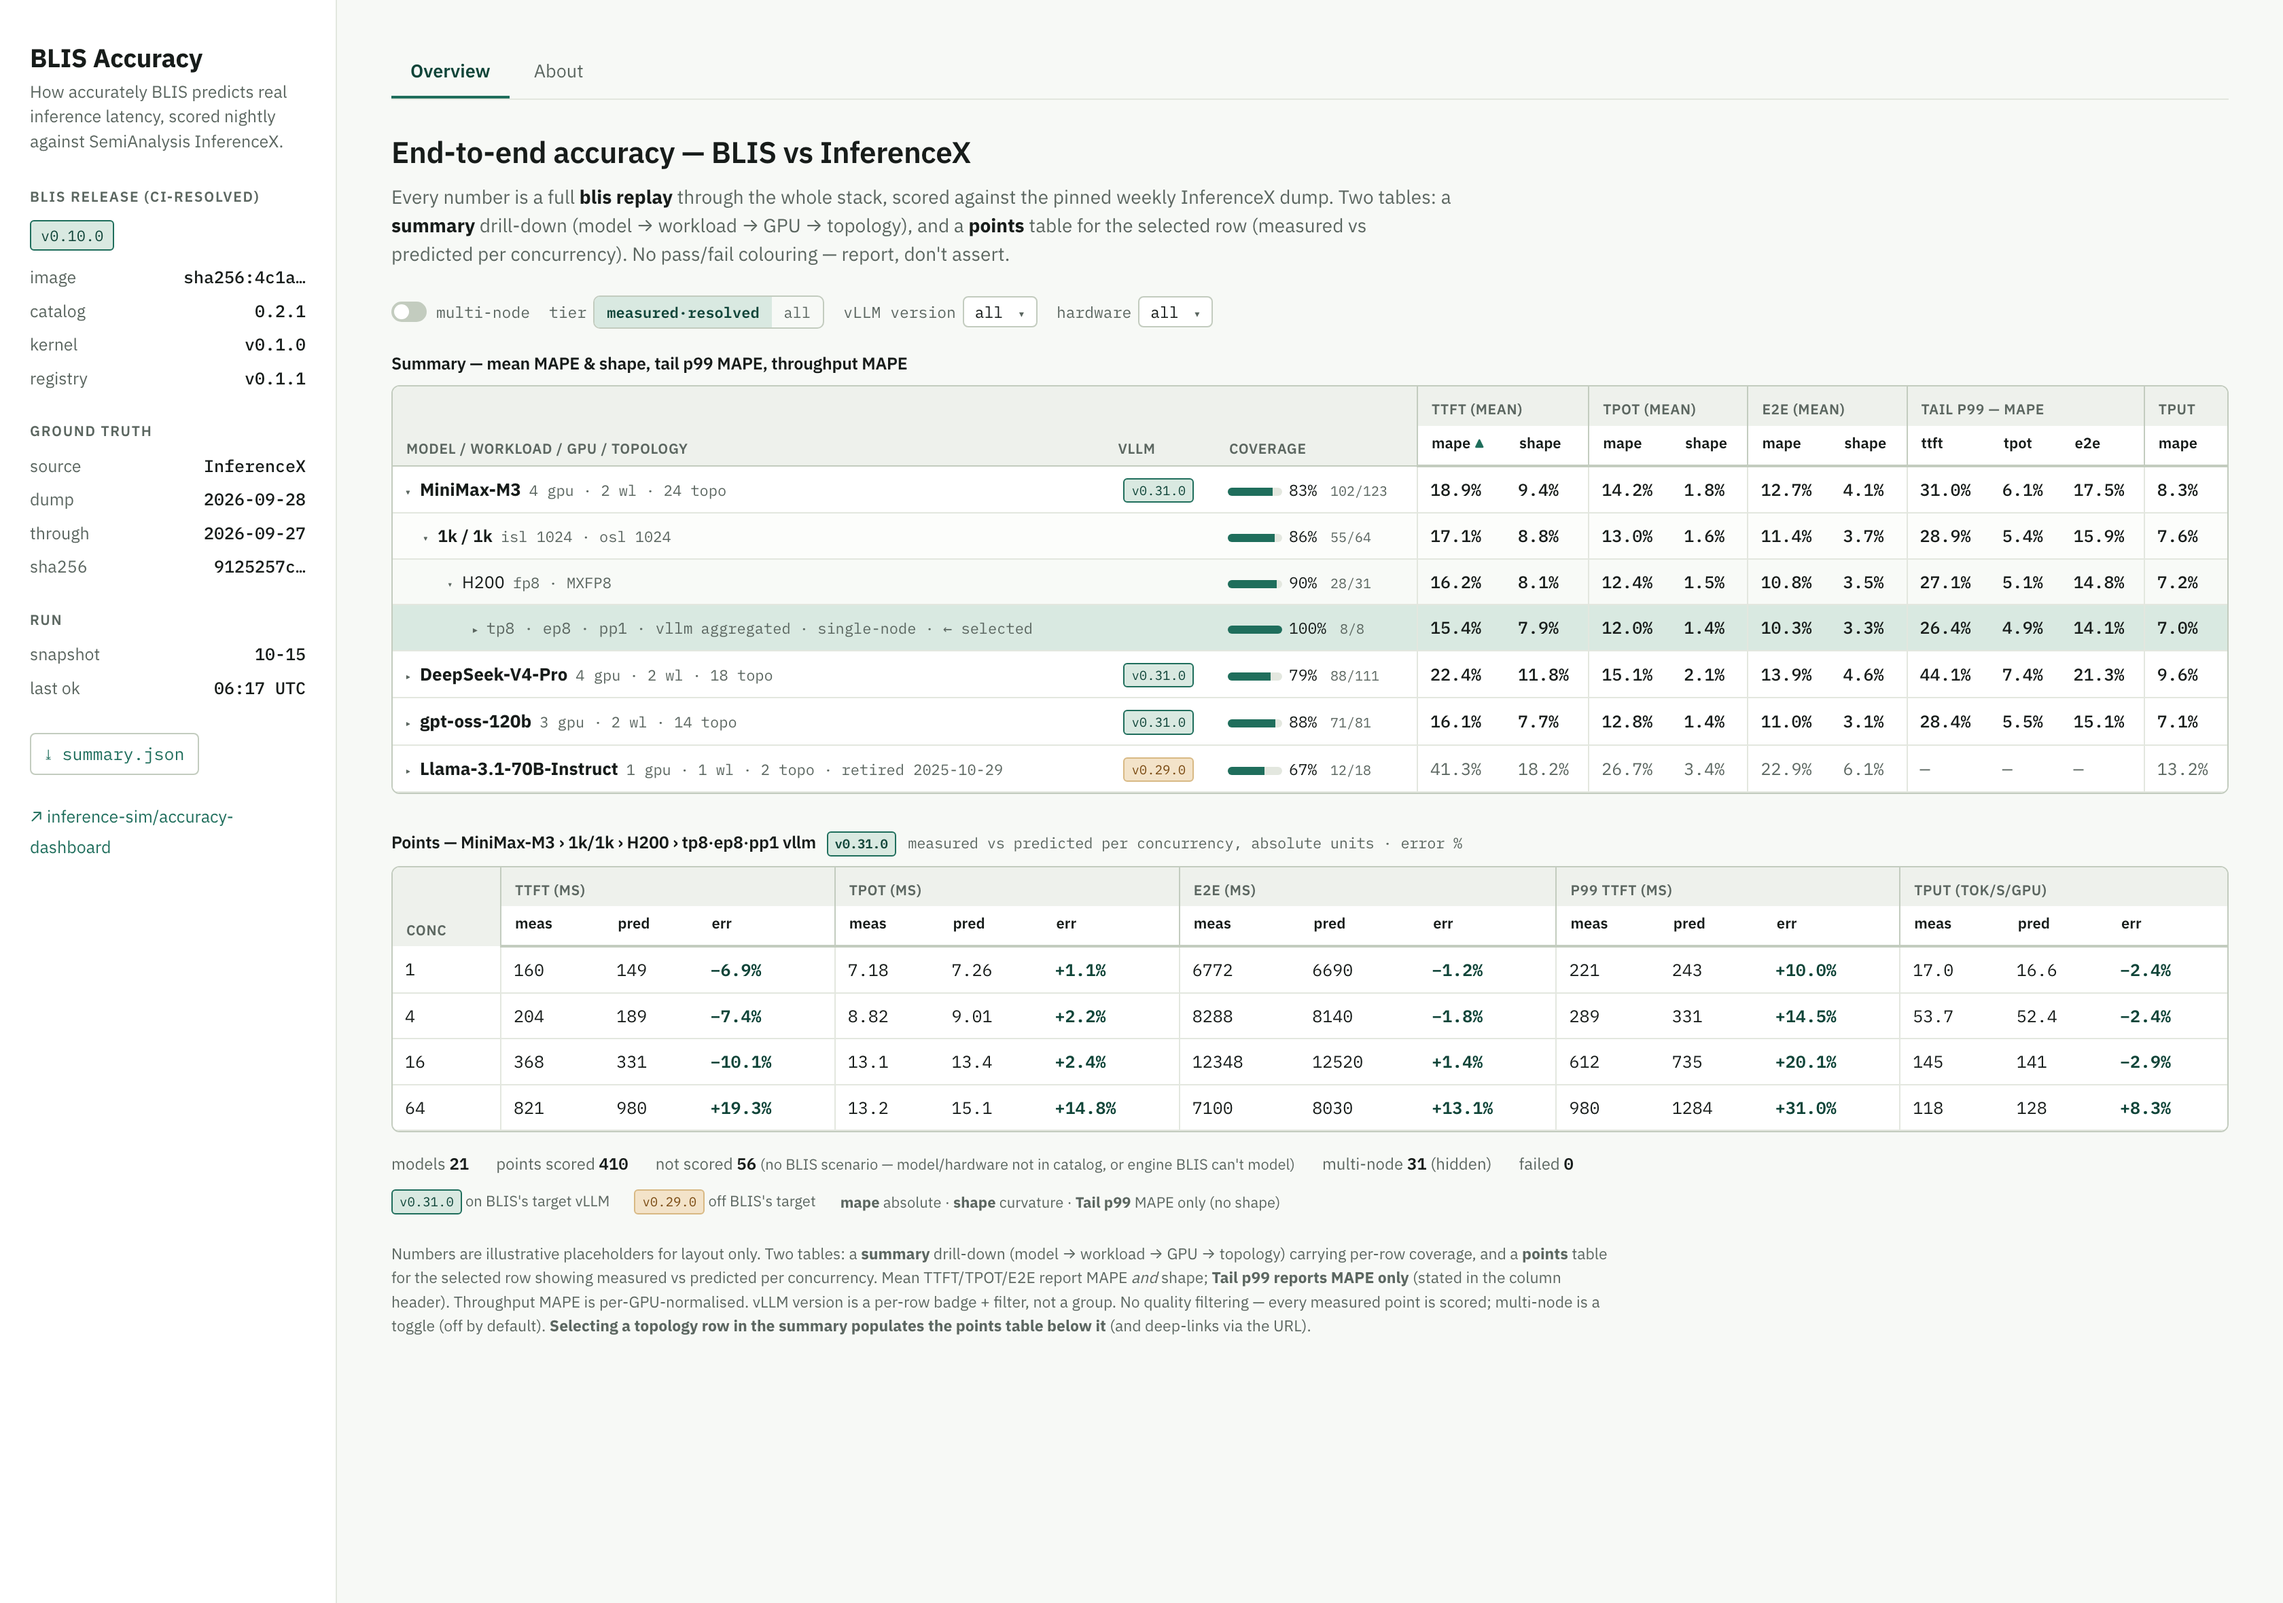
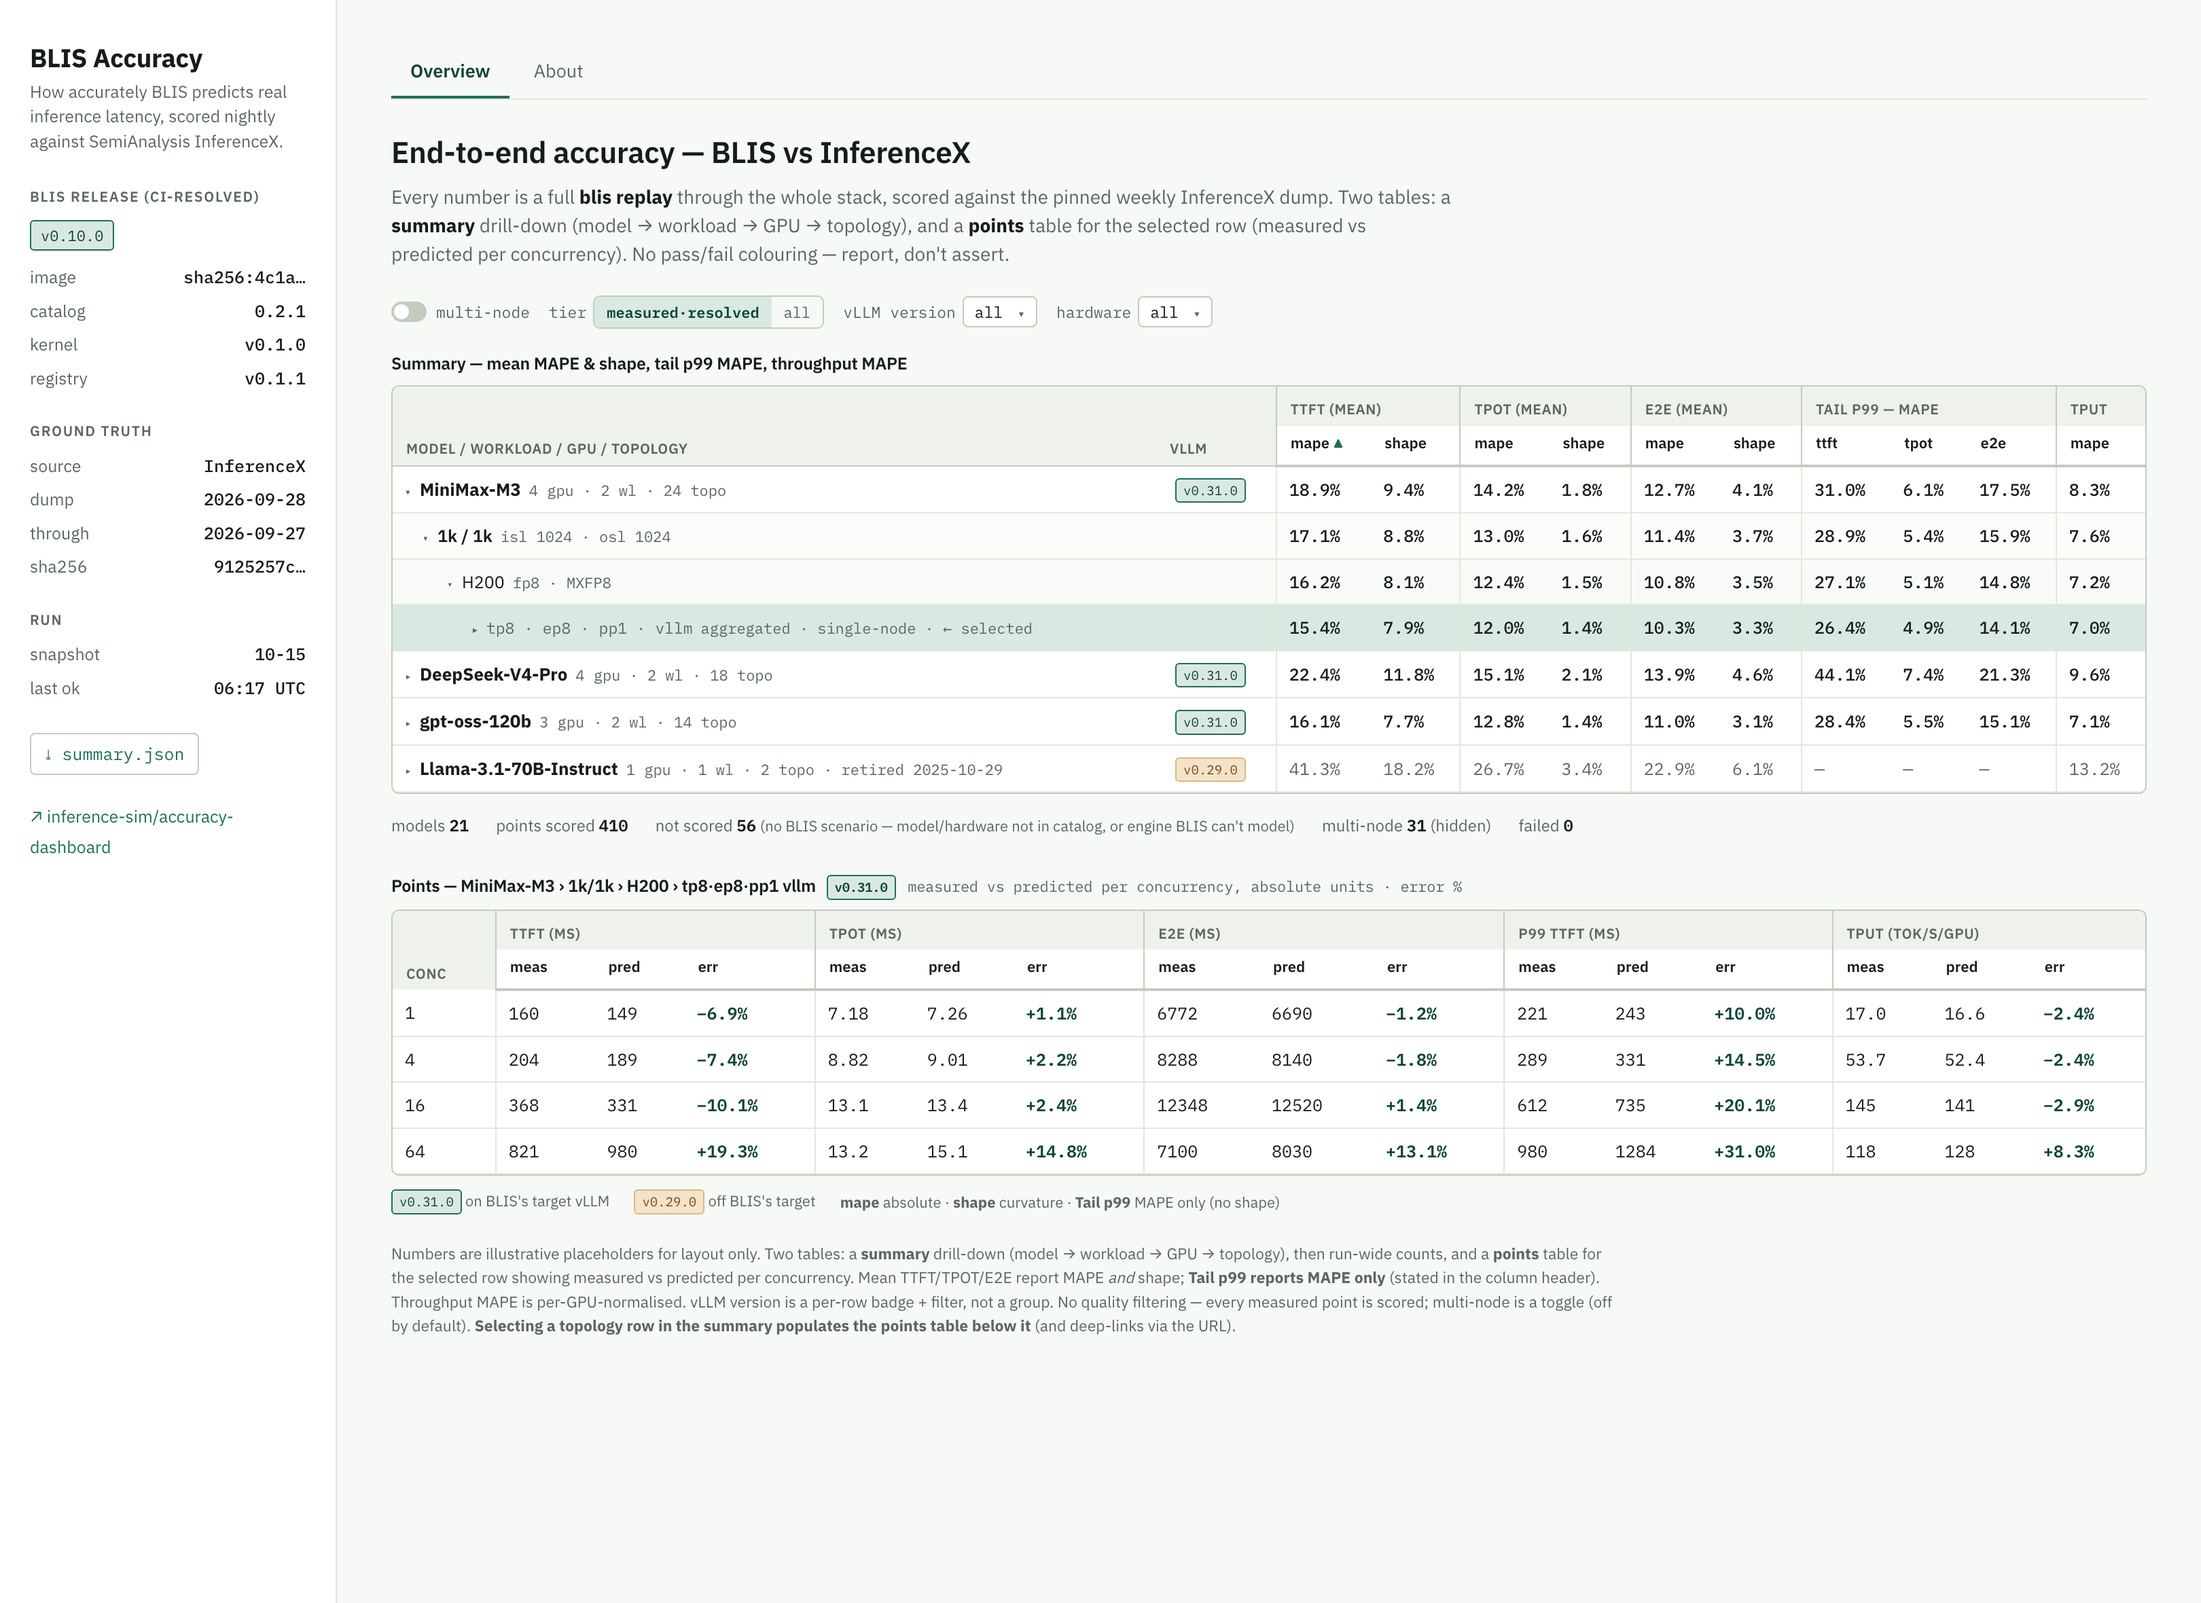
docs: drop coverage column from summary; move counts between tables
Remove the per-row coverage % from the summary table, and move the run-wide
counts (models / scored / not-scored / multi-node / failed) to sit between the
summary and points tables.

diff --git a/docs/mockups/overview-v0.1.0.html b/docs/mockups/overview-v0.1.0.html
@@ -141,7 +141,6 @@ td .n{font-family:var(--font-mono);font-size:10px;color:var(--muted);margin-left
           <tr class="grp">
             <th rowspan="2" style="vertical-align:bottom">Model / workload / GPU / topology</th>
             <th rowspan="2" style="vertical-align:bottom">vLLM</th>
-            <th rowspan="2" style="vertical-align:bottom">coverage</th>
             <th class="sep" colspan="2">TTFT (mean)</th>
             <th class="sep" colspan="2">TPOT (mean)</th>
             <th class="sep" colspan="2">E2E (mean)</th>
@@ -159,59 +158,60 @@ td .n{font-family:var(--font-mono);font-size:10px;color:var(--muted);margin-left
         <tbody>
           <tr class="r0 selrow"><td class="name"><span class="caret">▾</span>MiniMax-M3<span class="facet">4 gpu · 2 wl · 24 topo</span></td>
             <td><span class="ver">v0.31.0</span></td>
-            <td><span class="cov"><span class="bar"><i style="width:83%"></i></span>83% <span class="n">102/123</span></span></td>
-            <td class="sep"><span class="num">18.9%</span></td><td><span class="num">9.4%</span></td>
+                        <td class="sep"><span class="num">18.9%</span></td><td><span class="num">9.4%</span></td>
             <td class="sep"><span class="num">14.2%</span></td><td><span class="num">1.8%</span></td>
             <td class="sep"><span class="num">12.7%</span></td><td><span class="num">4.1%</span></td>
             <td class="sep"><span class="num">31.0%</span></td><td><span class="num">6.1%</span></td><td><span class="num">17.5%</span></td>
             <td class="sep"><span class="num">8.3%</span></td></tr>
           <tr class="r1 selrow"><td class="name"><span class="caret">▾</span>1k / 1k<span class="facet">isl 1024 · osl 1024</span></td>
-            <td></td><td><span class="cov"><span class="bar"><i style="width:86%"></i></span>86% <span class="n">55/64</span></span></td>
-            <td class="sep"><span class="num">17.1%</span></td><td><span class="num">8.8%</span></td>
+            <td></td>            <td class="sep"><span class="num">17.1%</span></td><td><span class="num">8.8%</span></td>
             <td class="sep"><span class="num">13.0%</span></td><td><span class="num">1.6%</span></td>
             <td class="sep"><span class="num">11.4%</span></td><td><span class="num">3.7%</span></td>
             <td class="sep"><span class="num">28.9%</span></td><td><span class="num">5.4%</span></td><td><span class="num">15.9%</span></td>
             <td class="sep"><span class="num">7.6%</span></td></tr>
           <tr class="r2 selrow"><td class="name"><span class="caret">▾</span>H200<span class="facet">fp8 · MXFP8</span></td>
-            <td></td><td><span class="cov"><span class="bar"><i style="width:90%"></i></span>90% <span class="n">28/31</span></span></td>
-            <td class="sep"><span class="num">16.2%</span></td><td><span class="num">8.1%</span></td>
+            <td></td>            <td class="sep"><span class="num">16.2%</span></td><td><span class="num">8.1%</span></td>
             <td class="sep"><span class="num">12.4%</span></td><td><span class="num">1.5%</span></td>
             <td class="sep"><span class="num">10.8%</span></td><td><span class="num">3.5%</span></td>
             <td class="sep"><span class="num">27.1%</span></td><td><span class="num">5.1%</span></td><td><span class="num">14.8%</span></td>
             <td class="sep"><span class="num">7.2%</span></td></tr>
           <tr class="r3 sel"><td class="name"><span class="caret">▸</span>tp8 · ep8 · pp1 · vllm<span class="facet">aggregated · single-node · ← selected</span></td>
-            <td></td><td><span class="cov"><span class="bar"><i style="width:100%"></i></span>100% <span class="n">8/8</span></span></td>
-            <td class="sep"><span class="num">15.4%</span></td><td><span class="num">7.9%</span></td>
+            <td></td>            <td class="sep"><span class="num">15.4%</span></td><td><span class="num">7.9%</span></td>
             <td class="sep"><span class="num">12.0%</span></td><td><span class="num">1.4%</span></td>
             <td class="sep"><span class="num">10.3%</span></td><td><span class="num">3.3%</span></td>
             <td class="sep"><span class="num">26.4%</span></td><td><span class="num">4.9%</span></td><td><span class="num">14.1%</span></td>
             <td class="sep"><span class="num">7.0%</span></td></tr>
           <tr class="r0"><td class="name"><span class="caret">▸</span>DeepSeek-V4-Pro<span class="facet">4 gpu · 2 wl · 18 topo</span></td>
             <td><span class="ver">v0.31.0</span></td>
-            <td><span class="cov"><span class="bar"><i style="width:79%"></i></span>79% <span class="n">88/111</span></span></td>
-            <td class="sep"><span class="num">22.4%</span></td><td><span class="num">11.8%</span></td>
+                        <td class="sep"><span class="num">22.4%</span></td><td><span class="num">11.8%</span></td>
             <td class="sep"><span class="num">15.1%</span></td><td><span class="num">2.1%</span></td>
             <td class="sep"><span class="num">13.9%</span></td><td><span class="num">4.6%</span></td>
             <td class="sep"><span class="num">44.1%</span></td><td><span class="num">7.4%</span></td><td><span class="num">21.3%</span></td>
             <td class="sep"><span class="num">9.6%</span></td></tr>
           <tr class="r0"><td class="name"><span class="caret">▸</span>gpt-oss-120b<span class="facet">3 gpu · 2 wl · 14 topo</span></td>
             <td><span class="ver">v0.31.0</span></td>
-            <td><span class="cov"><span class="bar"><i style="width:88%"></i></span>88% <span class="n">71/81</span></span></td>
-            <td class="sep"><span class="num">16.1%</span></td><td><span class="num">7.7%</span></td>
+                        <td class="sep"><span class="num">16.1%</span></td><td><span class="num">7.7%</span></td>
             <td class="sep"><span class="num">12.8%</span></td><td><span class="num">1.4%</span></td>
             <td class="sep"><span class="num">11.0%</span></td><td><span class="num">3.1%</span></td>
             <td class="sep"><span class="num">28.4%</span></td><td><span class="num">5.5%</span></td><td><span class="num">15.1%</span></td>
             <td class="sep"><span class="num">7.1%</span></td></tr>
           <tr class="r0"><td class="name"><span class="caret">▸</span>Llama-3.1-70B-Instruct<span class="facet">1 gpu · 1 wl · 2 topo · retired 2025-10-29</span></td>
             <td><span class="ver off">v0.29.0</span></td>
-            <td><span class="cov"><span class="bar"><i style="width:67%"></i></span>67% <span class="n">12/18</span></span></td>
-            <td class="sep"><span class="num all">41.3%</span></td><td><span class="num all">18.2%</span></td>
+                        <td class="sep"><span class="num all">41.3%</span></td><td><span class="num all">18.2%</span></td>
             <td class="sep"><span class="num all">26.7%</span></td><td><span class="num all">3.4%</span></td>
             <td class="sep"><span class="num all">22.9%</span></td><td><span class="num all">6.1%</span></td>
             <td class="sep"><span class="num all">—</span></td><td><span class="num all">—</span></td><td><span class="num all">—</span></td>
             <td class="sep"><span class="num all">13.2%</span></td></tr>
         </tbody>
       </table>
+    </div>
+
+    <div class="coverage" style="margin:14px 0 4px">
+      <span>models <b>21</b></span>
+      <span>points scored <b>410</b></span>
+      <span>not scored <b>56</b> <span class="nscov">(no BLIS scenario — model/hardware not in catalog, or engine BLIS can't model)</span></span>
+      <span>multi-node <b>31</b> (hidden)</span>
+      <span>failed <b>0</b></span>
     </div>
 
     <!-- ============ TABLE 2: POINTS (leaf), measured vs predicted ============ -->
@@ -264,13 +264,6 @@ td .n{font-family:var(--font-mono);font-size:10px;color:var(--muted);margin-left
       </table>
     </div>
 
-    <div class="coverage">
-      <span>models <b>21</b></span>
-      <span>points scored <b>410</b></span>
-      <span>not scored <b>56</b> <span class="nscov">(no BLIS scenario — model/hardware not in catalog, or engine BLIS can't model)</span></span>
-      <span>multi-node <b>31</b> (hidden)</span>
-      <span>failed <b>0</b></span>
-    </div>
 
     <div class="legend">
       <span><span class="ver" style="margin:0">v0.31.0</span> on BLIS's target vLLM</span>
@@ -278,7 +271,7 @@ td .n{font-family:var(--font-mono);font-size:10px;color:var(--muted);margin-left
       <span><b>mape</b> absolute · <b>shape</b> curvature · <b>Tail p99</b> MAPE only (no shape)</span>
     </div>
 
-    <p class="foot">Numbers are illustrative placeholders for layout only. Two tables: a <b>summary</b> drill-down (model → workload → GPU → topology) carrying per-row coverage, and a <b>points</b> table for the selected row showing measured vs predicted per concurrency. Mean TTFT/TPOT/E2E report MAPE <i>and</i> shape; <b>Tail p99 reports MAPE only</b> (stated in the column header). Throughput MAPE is per-GPU-normalised. vLLM version is a per-row badge + filter, not a group. No quality filtering — every measured point is scored; multi-node is a toggle (off by default). <b>Selecting a topology row in the summary populates the points table below it</b> (and deep-links via the URL).</p>
+    <p class="foot">Numbers are illustrative placeholders for layout only. Two tables: a <b>summary</b> drill-down (model → workload → GPU → topology), then run-wide counts, and a <b>points</b> table for the selected row showing measured vs predicted per concurrency. Mean TTFT/TPOT/E2E report MAPE <i>and</i> shape; <b>Tail p99 reports MAPE only</b> (stated in the column header). Throughput MAPE is per-GPU-normalised. vLLM version is a per-row badge + filter, not a group. No quality filtering — every measured point is scored; multi-node is a toggle (off by default). <b>Selecting a topology row in the summary populates the points table below it</b> (and deep-links via the URL).</p>
   </main>
 </div>
 </body>
